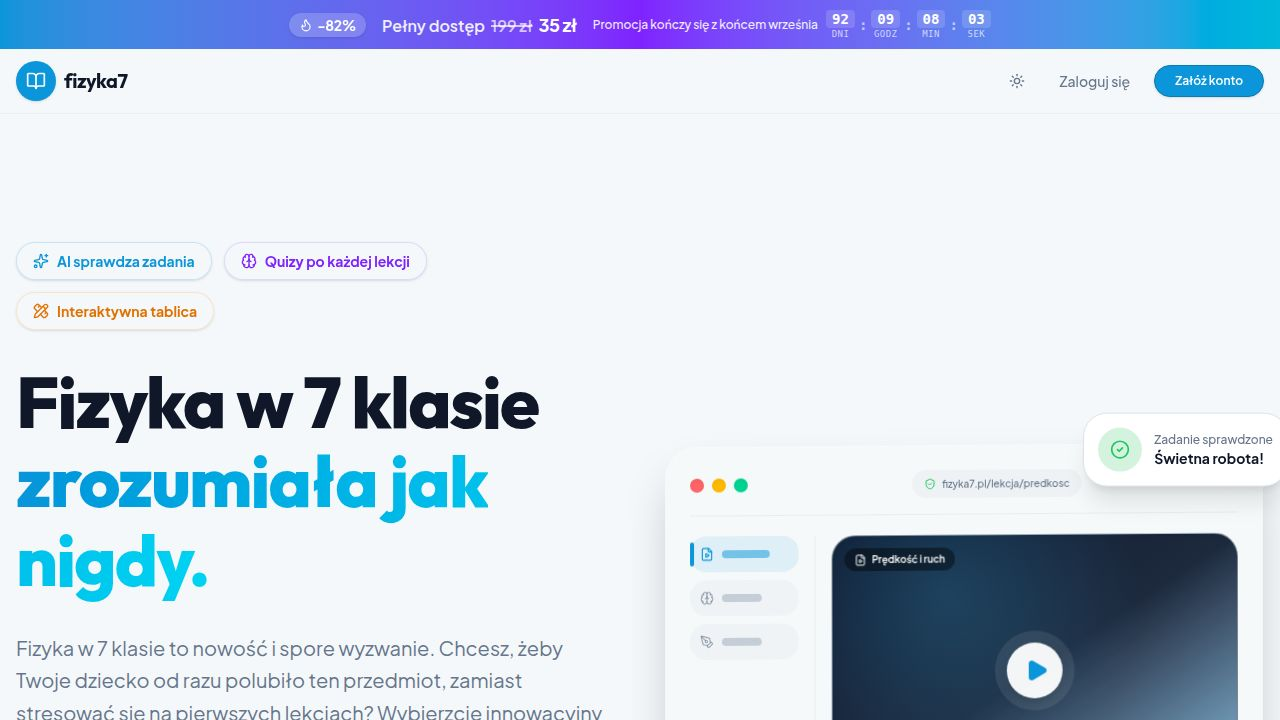
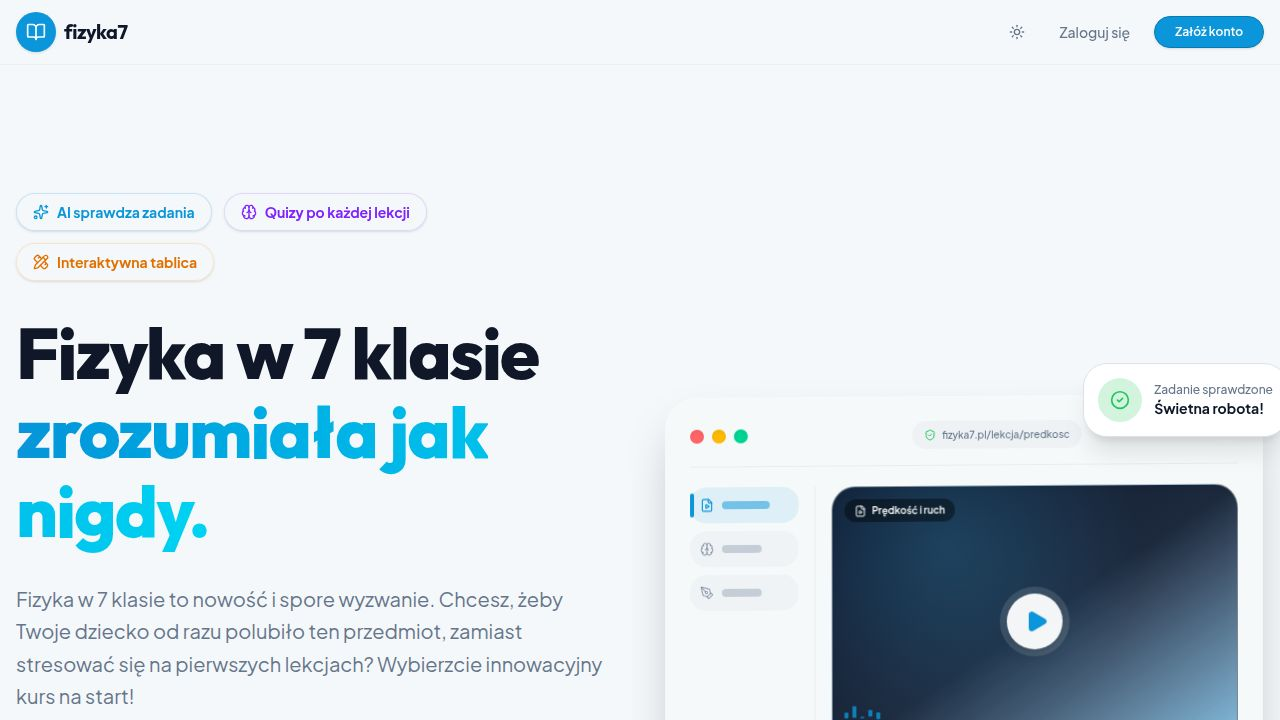
Add ability to select pen thickness for drawing
Adds pen thickness selection to the whiteboard component, updating initial data for Excalidraw and introducing a new UI element for user selection.

Replit-Commit-Author: Agent
Replit-Commit-Session-Id: 26f2b4f2-771f-4add-8796-0afc2be6fa8e
Replit-Commit-Checkpoint-Type: full_checkpoint
Replit-Commit-Event-Id: 008081a4-000d-428c-a848-16a115462757
Replit-Commit-Screenshot-Url: https://storage.googleapis.com/screenshot-production-us-central1/7f3200bd-414b-438c-a090-48805f72accd/26f2b4f2-771f-4add-8796-0afc2be6fa8e/Se3yO8G
Replit-Helium-Checkpoint-Created: true

diff --git a/artifacts/physics-platform/src/components/lesson-whiteboard/lesson-whiteboard.tsx b/artifacts/physics-platform/src/components/lesson-whiteboard/lesson-whiteboard.tsx
@@ -14,6 +14,7 @@ import {
   Monitor,
   ChevronDown,
   ChevronUp,
+  Info,
 } from "lucide-react";
 
 type ExcalidrawAPI = Parameters<
@@ -21,6 +22,16 @@ type ExcalidrawAPI = Parameters<
 >[0];
 
 const MAX_UPLOAD_BYTES = 5 * 1024 * 1024;
+
+// Excalidraw obsługuje trzy poziomy grubości linii: 1 (cienki), 2 (normalny),
+// 4 (gruby). Domyślnie wybieramy cienki — jest najczytelniejszy do cyfr, wzorów
+// i jednostek, a przy eksporcie 1600 px pozostaje wyraźny dla Gemini AI.
+type PenWidth = 1 | 2 | 4;
+const PEN_OPTIONS: { label: string; value: PenWidth; preview: number }[] = [
+  { label: "Cienki pisak", value: 1, preview: 2 },
+  { label: "Normalny pisak", value: 2, preview: 3 },
+  { label: "Gruby pisak", value: 4, preview: 5 },
+];
 
 function blobToDataUrl(blob: Blob): Promise<string> {
   return new Promise((resolve, reject) => {
@@ -65,6 +76,7 @@ function WhiteboardTask({ task }: { task: Task }) {
   const [errorMsg, setErrorMsg] = useState<string | null>(null);
   const [isPreparing, setIsPreparing] = useState(false);
   const [showTask, setShowTask] = useState(true);
+  const [penWidth, setPenWidth] = useState<PenWidth>(1);
   const checkMutation = useCheckTask();
   const busyRef = useRef(false);
   const isBusy = isPreparing || checkMutation.isPending;
@@ -81,6 +93,25 @@ function WhiteboardTask({ task }: { task: Task }) {
     setFeedback(null);
     setErrorMsg(null);
   }, [api]);
+
+  // Szybki wybór grubości pisaka. Zmienia domyślną grubość nowych elementów
+  // (istniejące rysunki zostają bez zmian) i od razu aktywuje pisak odręczny,
+  // aby uczeń mógł pisać dalej bez dodatkowych kliknięć.
+  const setPen = useCallback(
+    (width: PenWidth) => {
+      setPenWidth(width);
+      if (!api) return;
+      api.updateScene({
+        appState: {
+          currentItemStrokeWidth: width,
+          currentItemStrokeColor: "#1e1e1e",
+          currentItemOpacity: 100,
+        },
+      });
+      api.setActiveTool({ type: "freedraw" });
+    },
+    [api],
+  );
 
   const handleCheck = useCallback(async () => {
     if (busyRef.current) return;
@@ -164,7 +195,13 @@ function WhiteboardTask({ task }: { task: Task }) {
           langCode="pl-PL"
           theme="light"
           initialData={{
-            appState: { viewBackgroundColor: "#ffffff", currentItemStrokeWidth: 1 },
+            appState: {
+              viewBackgroundColor: "#ffffff",
+              currentItemStrokeWidth: 1,
+              currentItemStrokeColor: "#1e1e1e",
+              currentItemOpacity: 100,
+              currentItemRoughness: 0,
+            },
           }}
           UIOptions={{
             canvasActions: {
@@ -218,6 +255,48 @@ function WhiteboardTask({ task }: { task: Task }) {
       </div>
 
       <div className="p-5 sm:p-6 space-y-5 border-t">
+        <div className="space-y-2">
+          <div className="flex flex-wrap items-center gap-x-3 gap-y-2">
+            <span className="text-sm font-semibold text-muted-foreground">
+              Grubość pisaka:
+            </span>
+            <div
+              className="flex flex-wrap gap-2"
+              role="group"
+              aria-label="Wybór grubości pisaka"
+            >
+              {PEN_OPTIONS.map((opt) => {
+                const active = penWidth === opt.value;
+                return (
+                  <button
+                    key={opt.value}
+                    type="button"
+                    onClick={() => setPen(opt.value)}
+                    aria-pressed={active}
+                    title="Najlepiej używać cienkiego pisaka do obliczeń i wzorów."
+                    className={`flex h-11 items-center gap-2 rounded-full border px-4 text-sm font-semibold transition-colors ${
+                      active
+                        ? "border-sky-500 bg-sky-500 text-white shadow-sm"
+                        : "border-border bg-muted text-foreground hover:bg-muted/70"
+                    }`}
+                  >
+                    <span
+                      aria-hidden
+                      className="inline-block w-5 rounded-full bg-current"
+                      style={{ height: `${opt.preview}px` }}
+                    />
+                    {opt.label}
+                  </button>
+                );
+              })}
+            </div>
+          </div>
+          <p className="flex items-center gap-1.5 text-xs text-muted-foreground">
+            <Info className="h-3.5 w-3.5 shrink-0" />
+            Najlepiej używać cienkiego pisaka do obliczeń i wzorów.
+          </p>
+        </div>
+
         <div className="flex sm:hidden items-start gap-2 rounded-2xl bg-amber-500/10 px-4 py-3 text-sm text-amber-700 dark:text-amber-400">
           <Monitor className="w-4 h-4 mt-0.5 shrink-0" />
           <span>